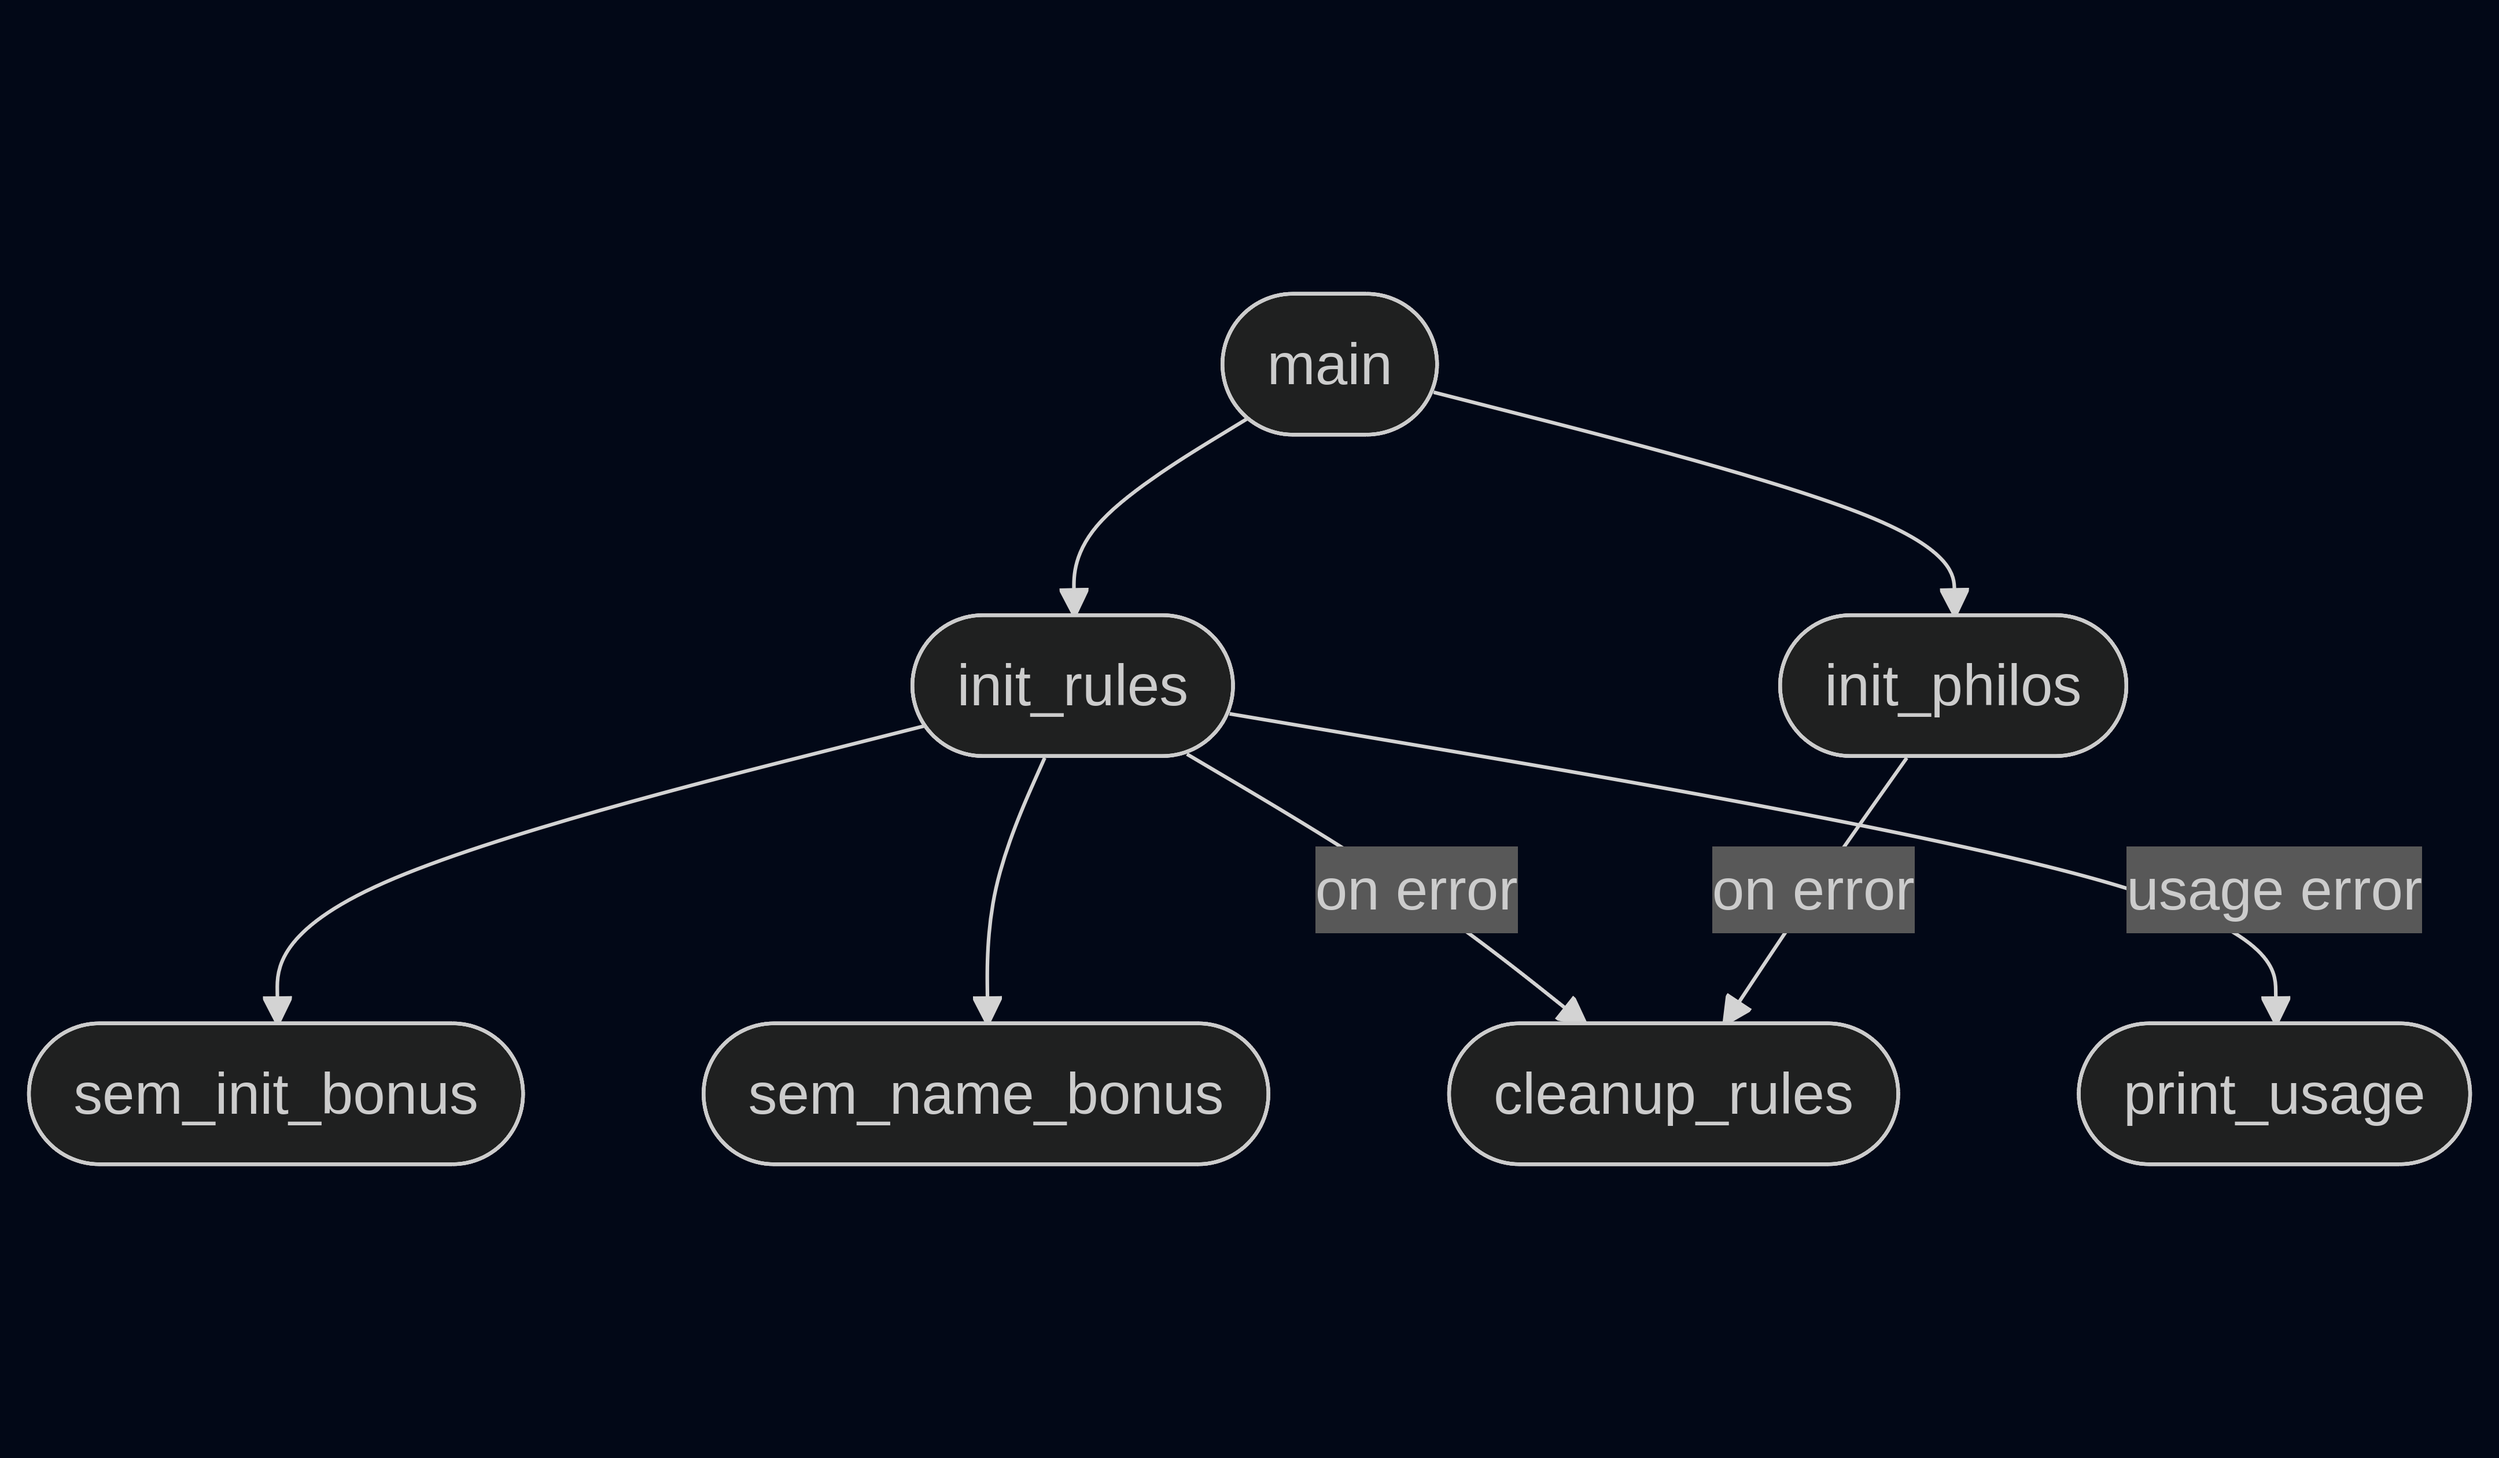
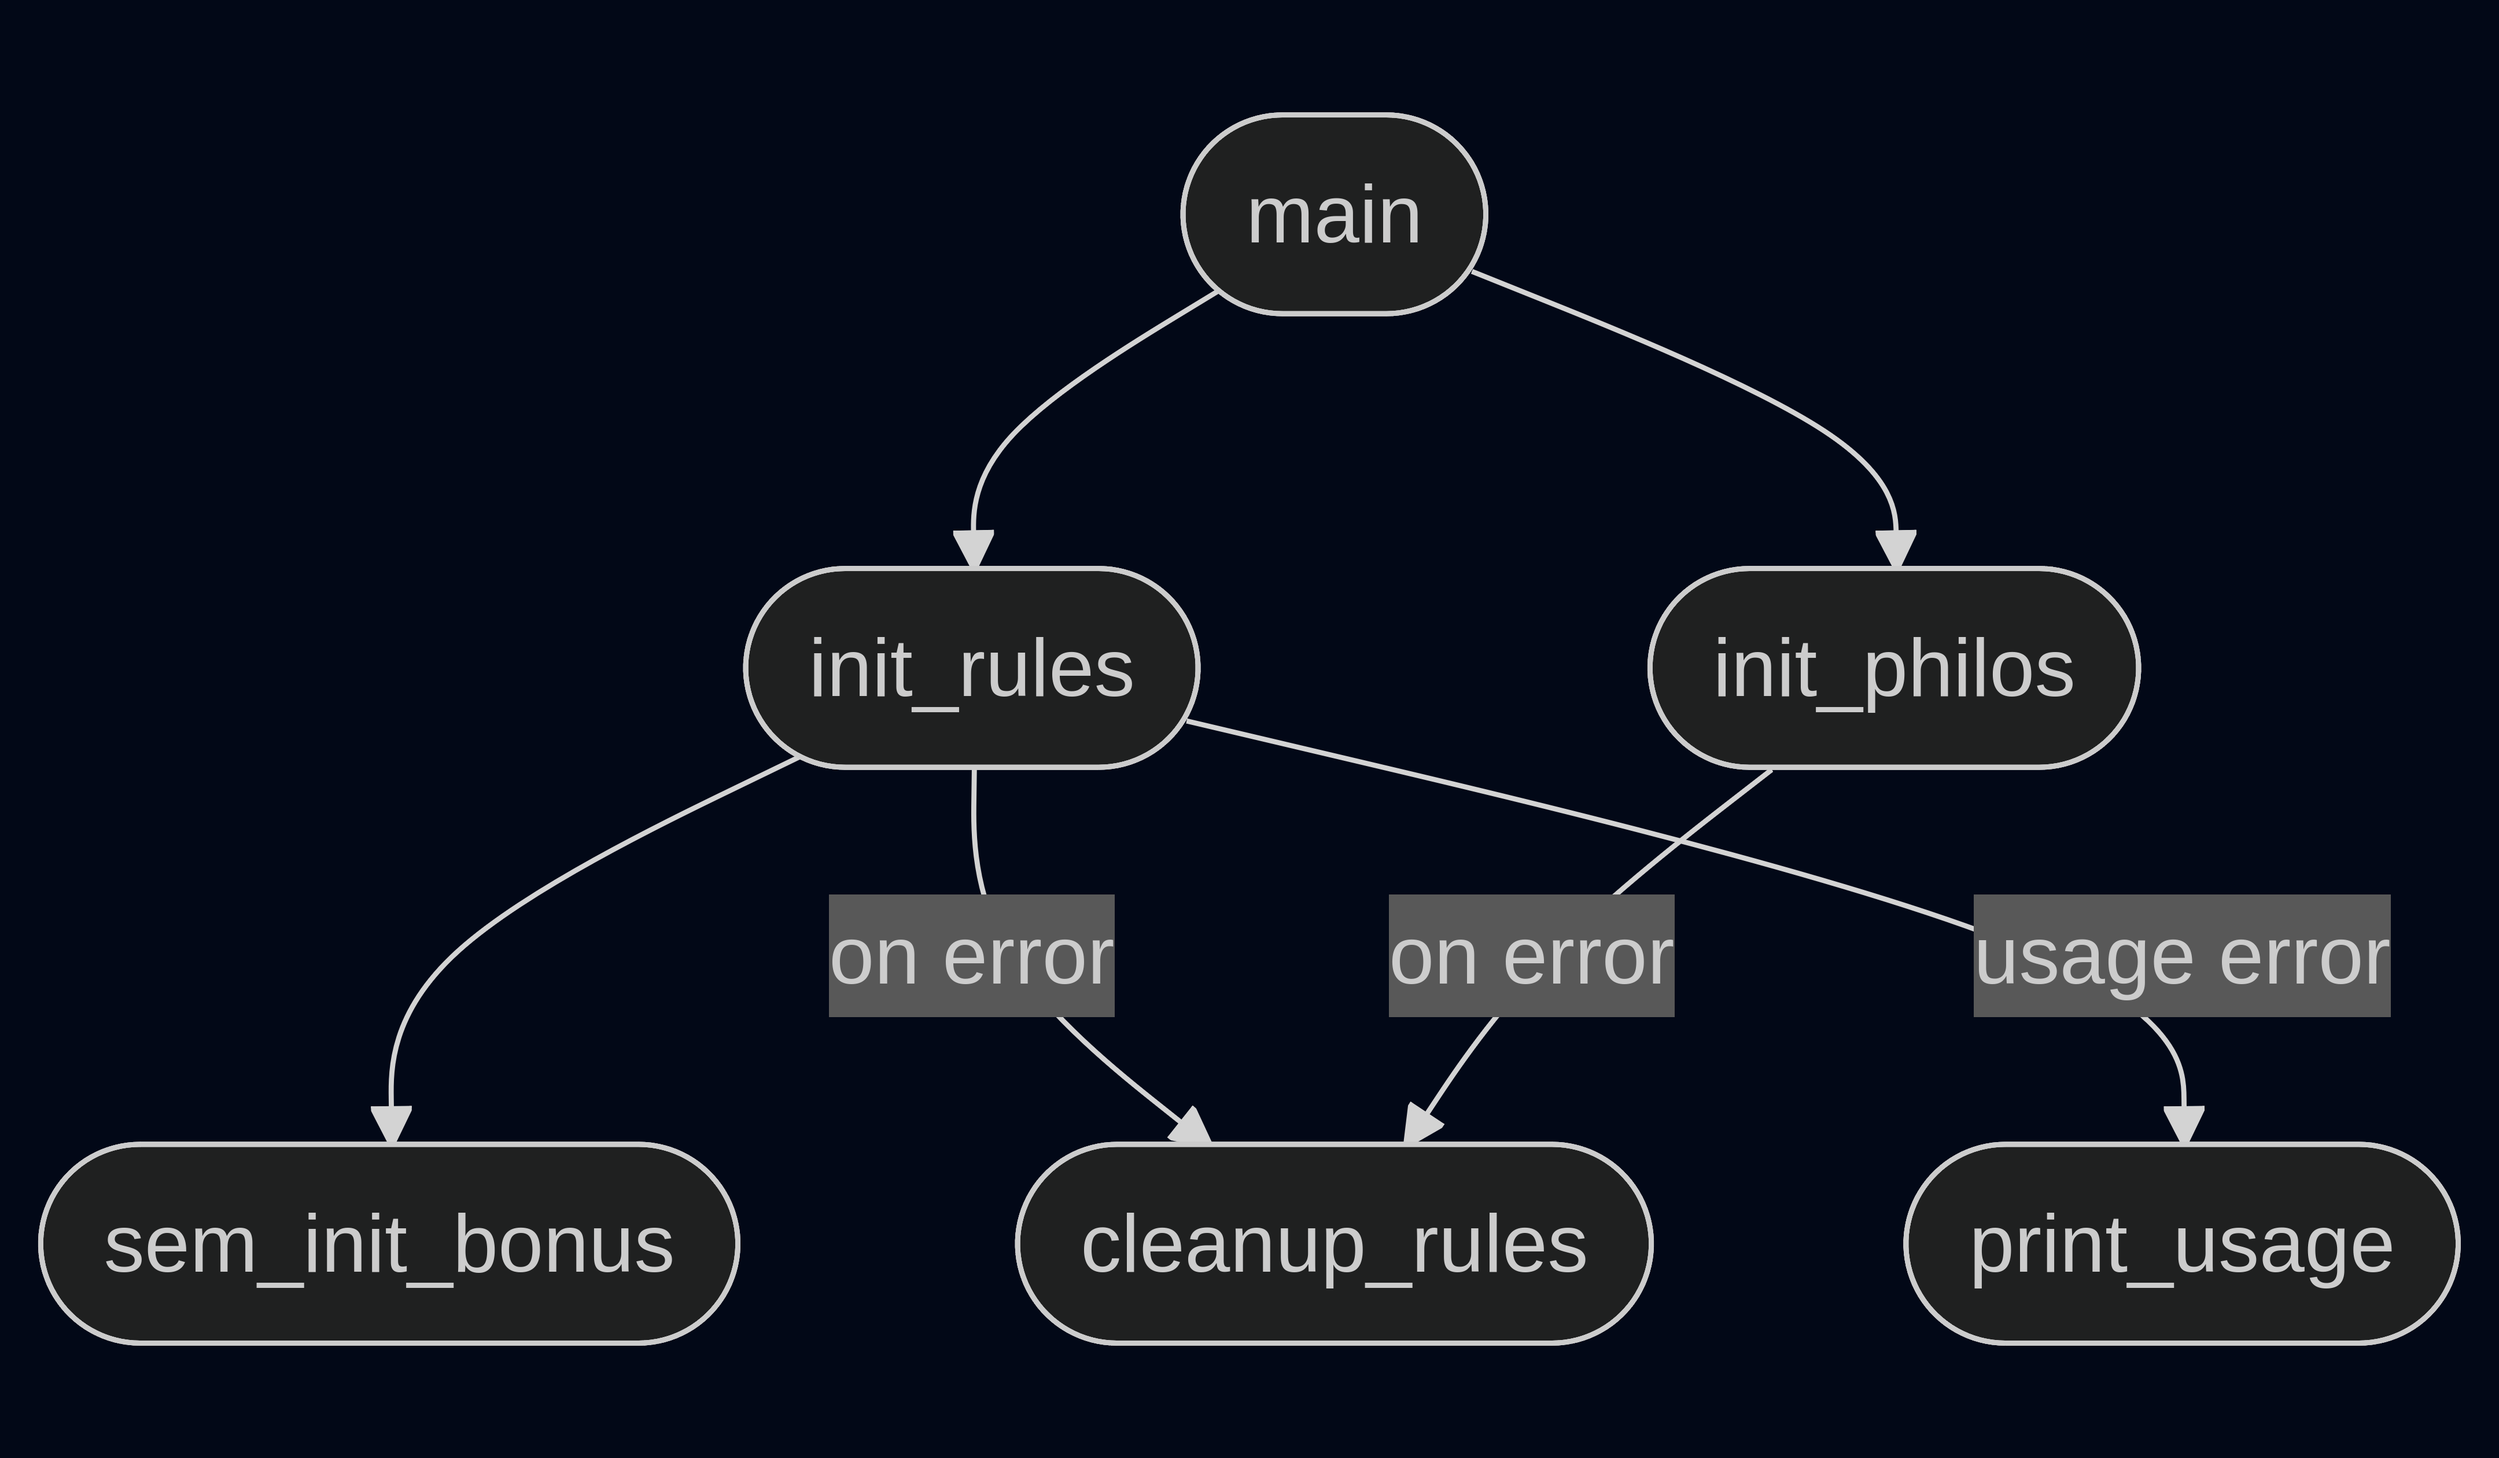
Update documentation and remove obsolete semaphore file; integrate make_sem_name into sem_init_bonus.c

diff --git a/CHANGELOG.md b/CHANGELOG.md
@@ -1,0 +1,89 @@
+# Changelog
+
+## Recent Improvements (January 31, 2026)
+
+### Code Refactoring & Optimization
+
+#### philo_bonus
+1. **Removed `validate_timings()` function** (both philo and philo_bonus)
+   - Redundant validation already performed in `parse_and_set_timings()`
+   - All time values validated against `LONG_MAX` and range constraints
+   - Simplified code flow without affecting functionality
+
+2. **Integrated `make_sem_name()` into `sem_init_bonus.c`**
+   - Moved from separate `sem_name_bonus.c` file
+   - Removed orphaned `sem_name_bonus.c` source file
+   - Updated Makefile to reflect removal
+   - Function now private (static) to sem_init_bonus.c
+   - Removed declaration from header (no longer public)
+   - Cleaner code organization with better cohesion
+
+3. **Removed `make_name()` wrapper function**
+   - Direct calls to `make_sem_name()` in `open_sems()`
+   - Eliminated unnecessary indirection
+   - Improved code clarity
+
+4. **Fixed memory leak in `make_sem_name()`**
+   - Intermediate string allocation now properly tracked
+   - Added `tmp2` variable to preserve intermediate result before final join
+   - All temporary allocations explicitly freed before return
+   - Valgrind confirms zero definite leaks
+
+#### Both versions
+- **Memory safety verified with Valgrind**
+  - philo: `All heap blocks were freed -- no leaks is possible`
+  - philo_bonus: `0 bytes definitely lost` (only system lib allocations, not leaks)
+  - All malloc/free pairs properly matched
+
+### Documentation Updates
+
+1. Updated README.md
+   - Removed `sem_name_bonus.c` from project structure
+   - Updated bonus function descriptions
+   - Noted `make_sem_name()` integration
+
+2. Updated `doc/philo_bonus/philo_bonus_section_flows.md`
+   - Removed `sem_name_bonus` from initialization flow
+   - Clarified `sem_init_bonus` now contains all semaphore setup
+
+### Quality Metrics
+
+- **Compiler**: No warnings with `-Wall -Wextra -Werror`
+- **Memory**: Zero definite memory leaks (Valgrind verified)
+- **Code Style**: 42 Norm compliant
+- **Test Status**: All edge cases handled correctly
+
+### Files Modified
+
+```
+philo/src/parsing.c                          - Removed validate_timings()
+philo_bonus/src/parsing_bonus.c              - Removed validate_timings()
+philo_bonus/src/sem_init_bonus.c             - Added make_sem_name(), fixed memory leak
+philo_bonus/src/sem_name_bonus.c             - DELETED
+philo_bonus/include/philo_bonus.h            - Removed make_sem_name declaration
+philo_bonus/Makefile                         - Removed sem_name_bonus.c
+README.md                                    - Updated structure and descriptions
+doc/philo_bonus/philo_bonus_section_flows.md - Updated initialization flow
+```
+
+### Performance Impact
+
+- **No performance regression** - refactoring is internal
+- **Improved memory efficiency** - fixed potential leak
+- **Better code organization** - reduced file count, clearer dependencies
+
+### Testing
+
+Run the following to verify improvements:
+
+```bash
+# Build and test
+cd philo_bonus && make && ./philo_bonus 5 800 200 200 7
+
+# Memory validation
+valgrind --leak-check=full ./philo_bonus 5 800 200 200 7
+
+# Both versions
+cd ../philo && make && valgrind --leak-check=full ./philo 5 800 200 200 7
+```
+

diff --git a/doc/philo_bonus/philo_bonus_section_flows.md b/doc/philo_bonus/philo_bonus_section_flows.md
@@ -7,14 +7,12 @@ flowchart TD
     MAIN([main])
     INIT_RULES([init_rules])
     SEM_INIT([sem_init_bonus])
-    SEM_NAME([sem_name_bonus])
     INIT_PHILOS([init_philos])
     CLEANUP([cleanup_rules])
     PRINT_USAGE([print_usage])
 
     MAIN --> INIT_RULES
     INIT_RULES --> SEM_INIT
-    INIT_RULES --> SEM_NAME
     INIT_RULES -->|on error| CLEANUP
     INIT_RULES -->|usage error| PRINT_USAGE
     MAIN --> INIT_PHILOS
@@ -23,7 +21,7 @@ flowchart TD
 
 **Details:**
 - `main` initializes rules and philosophers using semaphores instead of mutexes
-- `init_rules` calls `sem_init_bonus` to create named semaphores and `sem_name_bonus` to generate semaphore names
+- `init_rules` calls `sem_init_bonus` to create named semaphores (make_sem_name is now integrated)
 - Semaphores are used for inter-process synchronization (different from mandatory part which uses threads)
 - Errors trigger full cleanup via `cleanup_rules`
 - Usage errors display help via `print_usage`

diff --git a/README.md b/README.md
@@ -108,7 +108,6 @@ philo_new/
         ├── meal_bonus.c
         ├── forks_bonus.c
         ├── sem_init_bonus.c
-        ├── sem_name_bonus.c
         ├── print_bonus.c
         ├── cleanup_bonus.c
         ├── time_bonus.c
@@ -147,7 +146,7 @@ philo_new/
 **Key Functions:**
 
 - `child_process()` - Each philosopher process runs this
-- `monitor_simulation_bonus()` - Watches for death
+- `monitor_routine()` - Monitor thread watches for death
 - `sem_wait/sem_post()` - Synchronization primitives
 - `make_sem_name()` - Generates unique semaphore names using PID and timestamp
 
